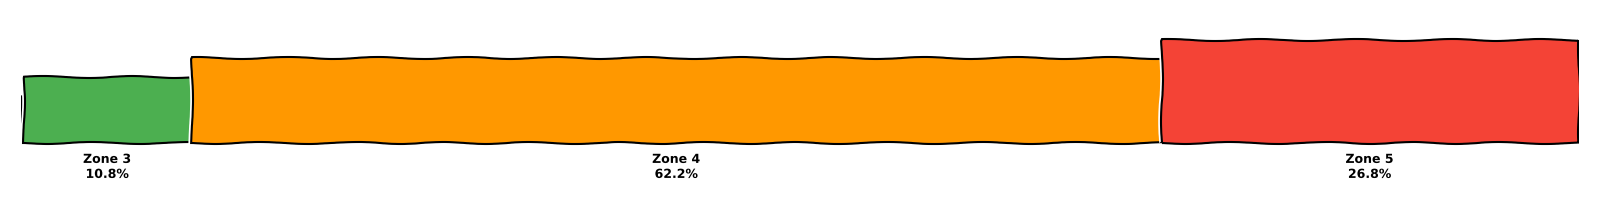
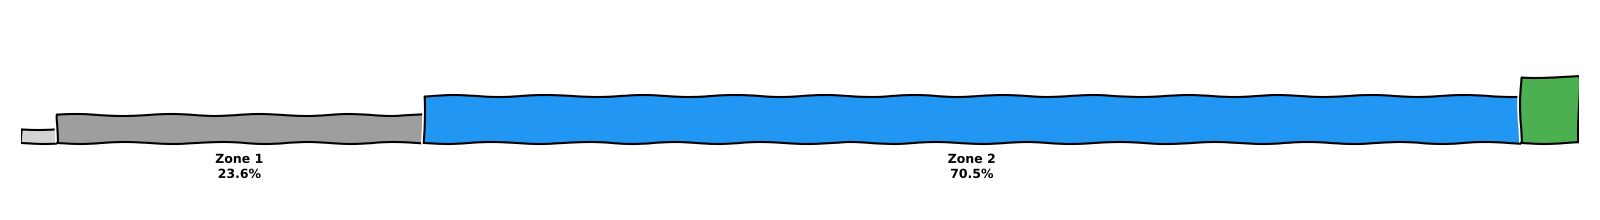
Auto-update Garmin stats and graphs

diff --git a/README.md b/README.md
@@ -2,8 +2,8 @@
 
 <!-- GARMIN_STATS:START -->
 ## Here what I last recorded on Garmin
-I last went road biking on 13 August 2026 in Hammersmith and Fulham.
-I was active for 56m, focusing on VO2 max, and had an average heart rate of 174.
+I last went cycling yesterday in Hammersmith and Fulham.
+I was active for 12m, focusing on recovery, and had an average heart rate of 126.
 
 ![Latest HR Zones](latest_hr_zones.png)
 <!-- GARMIN_STATS:END -->
